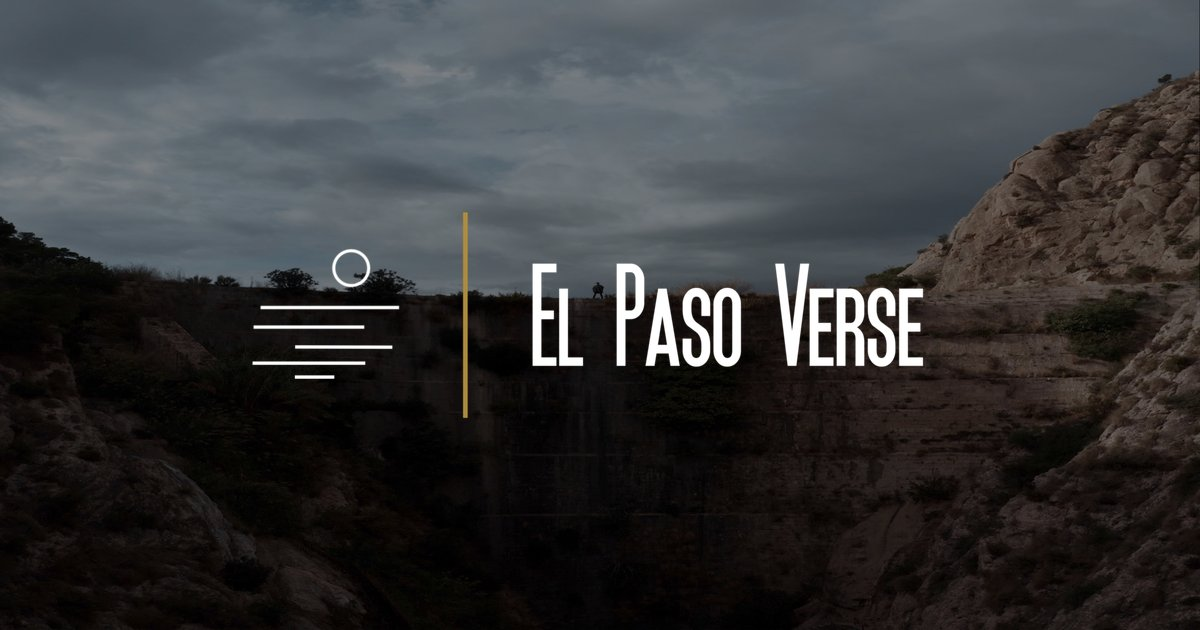
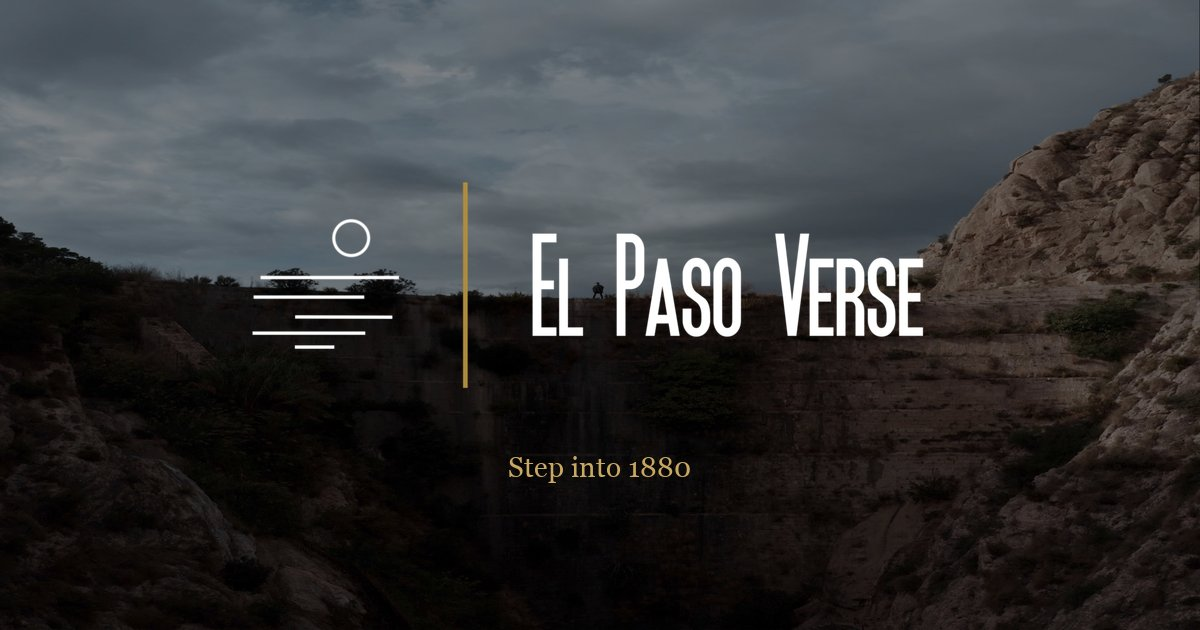
Fix OG issues: add CTA to preview image, shorten title to 50 chars

diff --git a/index.html b/index.html
@@ -5,8 +5,8 @@
     <meta name="viewport" content="width=device-width, initial-scale=1.0">
 
     <!-- Primary Meta Tags -->
-    <title>El Paso Verse | Western Films, Frontier Community & Real Land in 1880</title>
-    <meta name="title" content="El Paso Verse | Western Films, Frontier Community & Real Land in 1880">
+    <title>El Paso Verse | Cinema, Community & Real Frontier</title>
+    <meta name="title" content="El Paso Verse | Cinema, Community & Real Frontier">
     <meta name="description" content="A frontier reborn. Experience the Old West through cinema, community, and real land. Step into 1880 where Western films meet immersive frontier life.">
     <meta name="keywords" content="El Paso Verse, Western films, Old West, frontier, 1880, immersive theater, community-driven, PASO token, blockchain, land ownership, authentic Western experience">
     <meta name="author" content="El Paso Verse">
@@ -21,7 +21,7 @@
     <meta property="og:url" content="https://elpasoverse.up.railway.app/">
     <meta property="og:site_name" content="El Paso Verse">
     <meta property="og:locale" content="en_US">
-    <meta property="og:title" content="El Paso Verse | Western Films, Frontier Community & Real Land in 1880">
+    <meta property="og:title" content="El Paso Verse | Cinema, Community & Real Frontier">
     <meta property="og:description" content="A frontier reborn. Experience the Old West through cinema, community, and real land. Step into 1880 where Western films meet immersive frontier life.">
     <meta property="og:image" content="https://elpasoverse.up.railway.app/assets/og-preview.jpg">
     <meta property="og:image:type" content="image/jpeg">
@@ -32,7 +32,7 @@
     <!-- Twitter -->
     <meta name="twitter:card" content="summary_large_image">
     <meta name="twitter:url" content="https://elpasoverse.up.railway.app/">
-    <meta name="twitter:title" content="El Paso Verse | Western Films, Frontier Community & Real Land in 1880">
+    <meta name="twitter:title" content="El Paso Verse | Cinema, Community & Real Frontier">
     <meta name="twitter:description" content="A frontier reborn. Experience the Old West through cinema, community, and real land. Step into 1880 where Western films meet immersive frontier life.">
     <meta name="twitter:image" content="https://elpasoverse.up.railway.app/assets/og-preview.jpg">
     <meta name="twitter:site" content="@elpasoverse">
